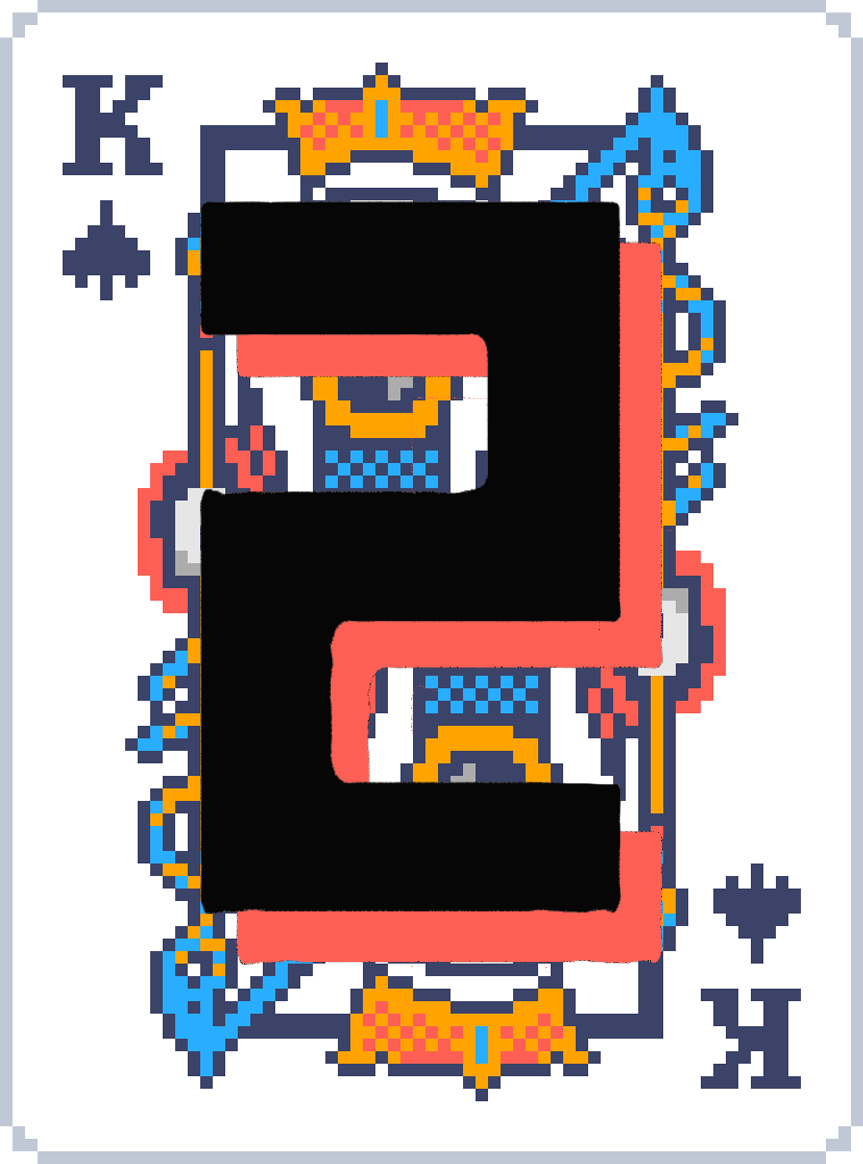
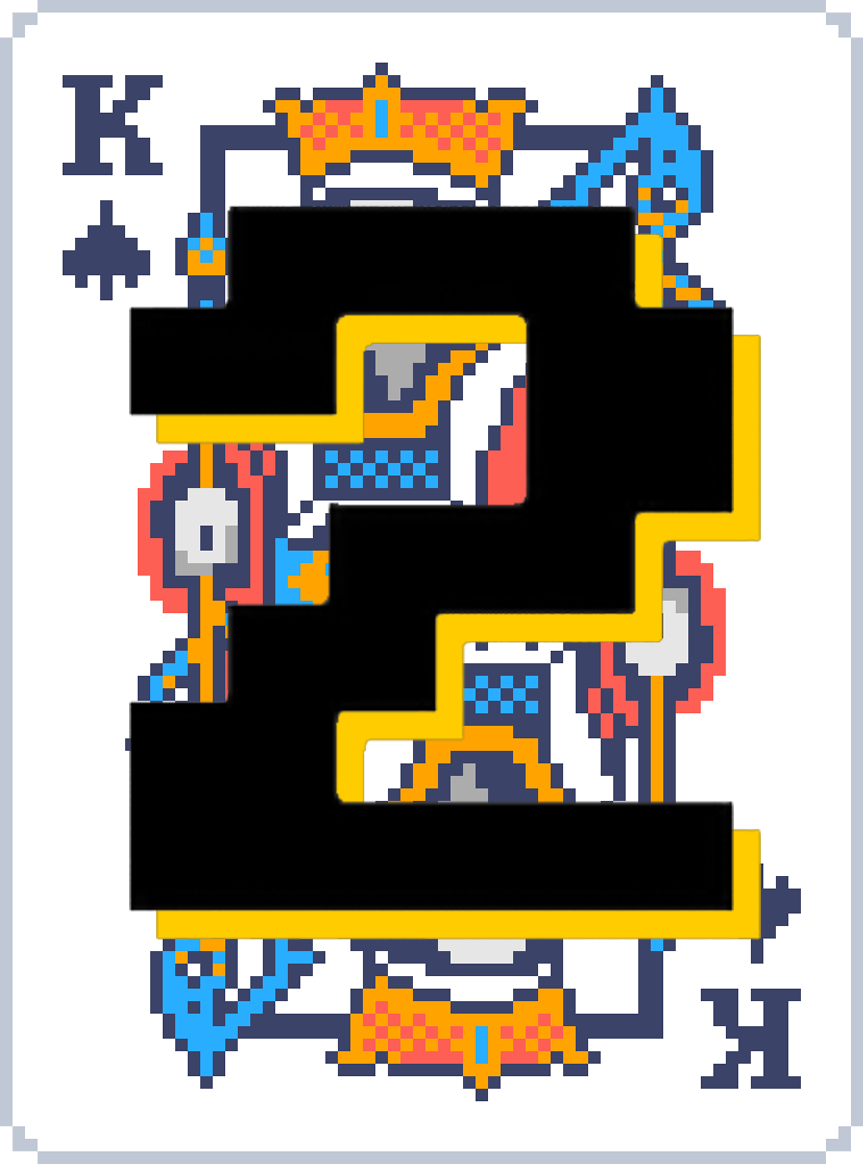
king counters updated to count below 1 and up to 10

Changed region(s): [[0.1506, 0.1546, 0.9038, 0.8351]]

diff --git a/server/components/server.js b/server/components/server.js
@@ -25,8 +25,25 @@ const socketToGameMap = {};
 
 const shuffleDeck = (deck) => [...deck].sort(() => Math.random() - 0.5);
 
+//Toggle between shuffled or preassembled decks
 const createGameState = (gameID) => {
-  const deck = shuffleDeck([...Cards]);
+  
+  // SHUFFLED DECK
+  // const deck = shuffleDeck([...Cards]);
+
+  // TEST DECK
+  const deck = [
+    Cards.find(card => card.id === 64), // Medium Spectral card
+    ...Array(10).fill().map(() => Cards.find(card => card.id === 13)), // 10 Kings
+  ];
+
+  
+  
+  
+  
+  const kingIDs = [13, 26, 39, 52];
+  const kingsInDeck = deck.filter(card => kingIDs.includes(card.id)).length;
+
   return {
     gameID,
     hasStarted: false,
@@ -36,7 +53,7 @@ const createGameState = (gameID) => {
     brothersGraph: {},
     drinkEquation: {},
     rulesText: "",
-    kingsRemaining: 4,
+    kingsRemaining: kingsInDeck,
   };
 };
 
@@ -177,9 +194,6 @@ io.on('connection', (socket) => {
   // Response back to the reconnected player
   socket.emit("joinRoomResponse", { gameID, success: true });
 });
-
-  
-  
 
   socket.on("startGame", ({ roomID }) => {
     const gameState = games[roomID];

diff --git a/src/components/Game.js b/src/components/Game.js
@@ -506,10 +506,11 @@ const Game = () => {
 
       <div className="king-counter">
         <img
-          src={`/CardImages/kingCounters/kingCounter${kingsRemaining}.png`}
+          src={`/CardImages/kingCounters/kingCounter${Math.min(kingsRemaining, 10)}.png`}
           className="king-counter-image"
         />
       </div>
+
 
     </div>
   );
